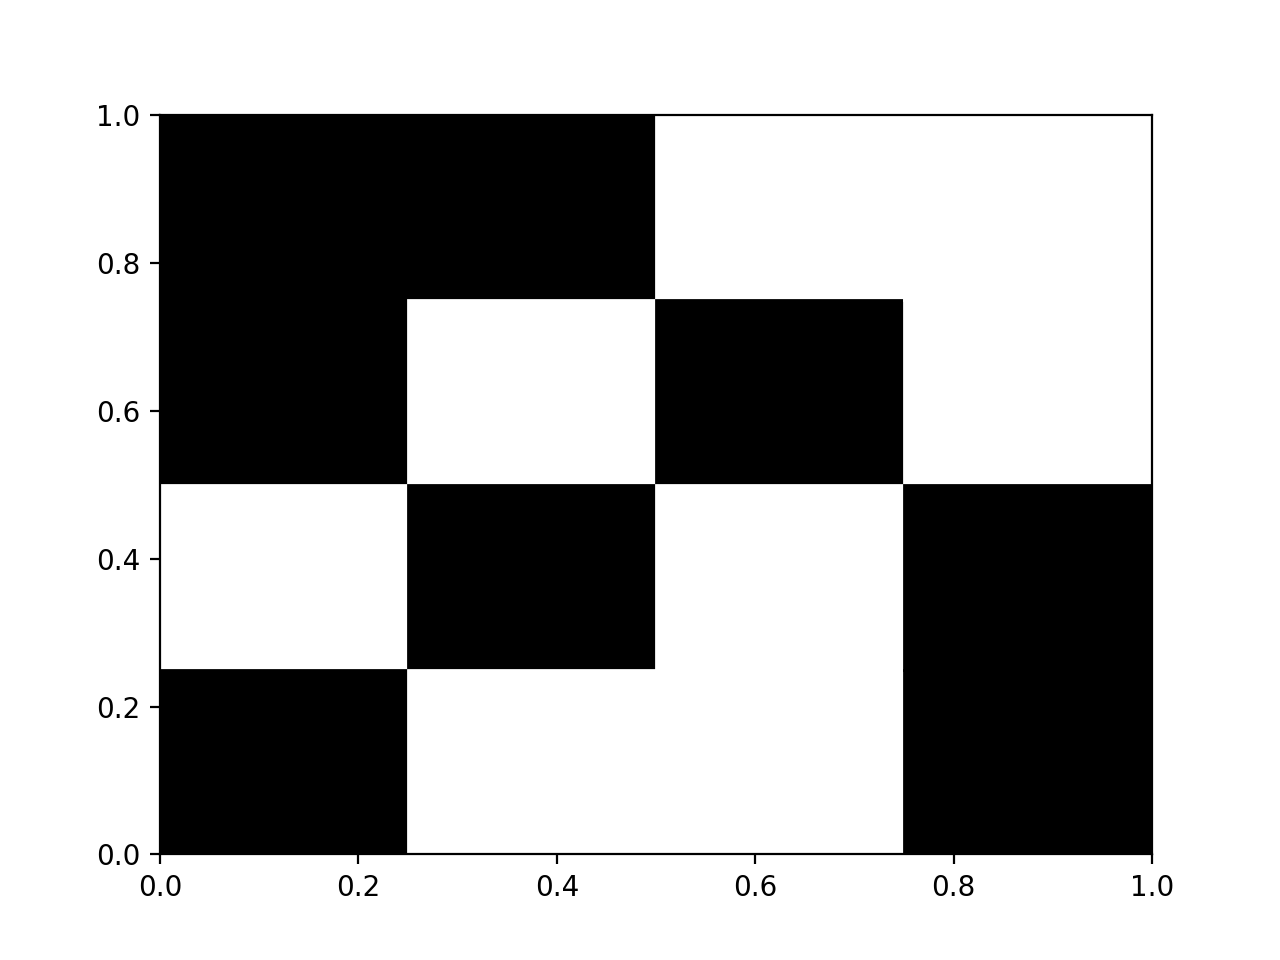
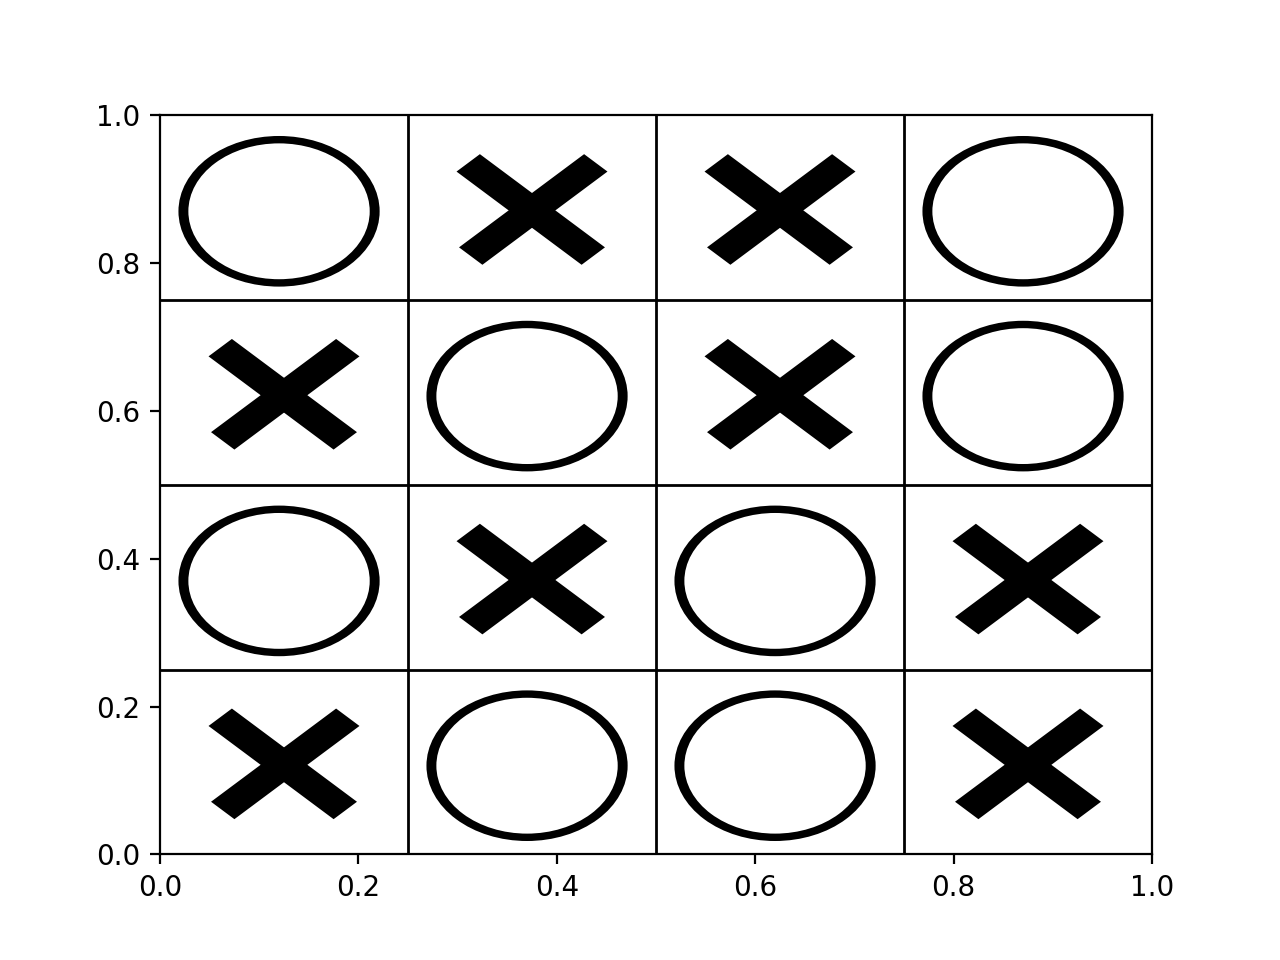
-FirstLab initial commit

diff --git a/ZeroLab/Programms/A_CrossZero.py b/ZeroLab/Programms/A_CrossZero.py
@@ -1,12 +1,12 @@
 import matplotlib.pyplot as plt
 import matplotlib.patches as patch
-from math import pi
 
 import numpy as np
 
 
-def matrixIsAcceptable(elements, maxX, maxY):
-    print(elements)
+def matrixIsAcceptable(elements, maxX, maxY, verbose=False):
+    if verbose:
+        print(elements)
     zeroAm = 0
     oneAm = 0
     # Check horizontal
@@ -23,14 +23,17 @@ def matrixIsAcceptable(elements, maxX, maxY):
                 isDivised = False
 
         if isDivised:
-            print('is divesed')
+            if verbose:
+                print('is divesed')
             return False
 
-    print('zeroAm = ', zeroAm)
-    print('oneAm = ', oneAm)
+    if verbose:
+        print('zeroAm = ', zeroAm)
+        print('oneAm = ', oneAm)
 
     if not zeroAm == oneAm == 8:
-        print('is not equal')
+        if verbose:
+            print('is not equal')
         return False
 
     # check vertical
@@ -41,39 +44,31 @@ def matrixIsAcceptable(elements, maxX, maxY):
             if (elements[y][x] != checkedEl):
                 isDivised = False
         if isDivised:
-            print('is divised')
+            if verbose:
+                print('is divised')
             return False
 
     return not isDivised
 
 
 def addCircle(x, y, color):
-    r=0.1
-    plt.gca().add_patch(patch.Circle((x + (0.25-r), y + (0.25-r)), radius=r, color=color))
-    plt.gca().add_patch(patch.Circle((x + (0.25-r), y + (0.25-r)), radius=r * 0.9, color='#FFFFFF'))
+    r = 0.1
+    plt.gca().add_patch(patch.Circle((x + (0.25 - r * 1.3), y + (0.25 - r * 1.3)), radius=r, color=color))
+    plt.gca().add_patch(patch.Circle((x + (0.25 - r * 1.3), y + (0.25 - r * 1.3)), radius=r * 0.9, color='#FFFFFF'))
 
 
 def addCross(x, y, color):
     # L
-    plt.gca().add_patch(patch.Rectangle((x + 0.25 * 0.7, y+0.25*0.1), color=color, width=0.03, height=0.175, angle=45))
+    plt.gca().add_patch(
+        patch.Rectangle((x + 0.25 * 0.7, y + 0.25 * 0.2), color=color, width=0.03, height=0.175, angle=45))
     # R
-    plt.gca().add_patch(patch.Rectangle((x + 0.25 * 0.3, y+0.25*0.1), color=color, width=0.175, height=0.03, angle=45))
+    plt.gca().add_patch(
+        patch.Rectangle((x + 0.25 * 0.3, y + 0.25 * 0.2), color=color, width=0.175, height=0.03, angle=45))
 
 
-if __name__ == '__main__':
-    minEl = 0
-    maxEl = 1
-
+def plot_field(elements, path, save=False, show=True):
     xSize = 4
     ySize = 4
-
-    elements = np.random.randint(minEl, maxEl + 1, size=(ySize, xSize))
-    while not matrixIsAcceptable(elements, xSize, ySize):
-        elements = np.random.randint(minEl, maxEl + 1, size=(ySize, xSize))
-        print('----------------------------------')
-    plt.xlim(0, 1)
-    plt.ylim(0, 1)
-
     for x in range(0, xSize):
         for y in range(0, ySize):
             if elements[y][x] == 1:
@@ -81,10 +76,45 @@ if __name__ == '__main__':
             else:
                 addCircle(x=x / 4.0, y=(ySize - y - 1) / 4.0, color="#000000")
 
-    plt.show()
-    plt.close()
+    for i in np.arange(0.25, 0.76, 0.25, dtype=float):
+        plt.gca().add_patch(patch.Rectangle((i, 0), color="#000000", width=0.0001, height=1))
+        plt.gca().add_patch(patch.Rectangle((0, i), color="#000000", width=1, height=0.0001))
 
-    # if input('SAVE? [Y/n]') == 'Y':
-    #     plt.savefig("../Pictures/1_CrossZero.png", dpi=200)
-    # if input('SHOW? [Y/n]') == 'Y':
-    #     plt.show()
+    if save:
+        plt.savefig(path, dpi=200)
+    if show:
+        plt.show()
+    plt.close()
+    return
+
+
+
+def load_data(ex_num, path_for_images, save_images=False):
+    minEl = 0
+    maxEl = 1
+    xSize = 4
+    ySize = 4
+
+    y_train = np.empty(ex_num, dtype=np.ndarray)
+    #x_train =
+    for i in range(0, ex_num):
+        elements = np.random.randint(minEl, maxEl + 1, size=(ySize, xSize))
+        while not matrixIsAcceptable(elements, xSize, ySize):
+            elements = np.random.randint(minEl, maxEl + 1, size=(ySize, xSize))
+
+        if save_images:
+            plot_field(elements, str(path_for_images) + str("/cz_") + str(i), save=save_images, show=False)
+        elements.shape = (16)
+        y_train[i] = elements
+    #    x_train
+
+    return y_train
+    # return (x_train, y_train), (x_test, y_test)
+    # return elements
+
+#size = 48 x 32 = 3072
+#size = 32 x 24 = 768
+#3072
+
+if __name__ == '__main__':
+        load_data(1,)

diff --git a/TfWithKeras/IMAGE_CHANGER.py b/TfWithKeras/IMAGE_CHANGER.py
@@ -1,16 +1,18 @@
 from PIL import Image
 
 
-def resize_image(input_image_path,
-                 output_image_path,
-                 size):
-    original_image = Image.open(input_image_path)
+def resize_image(input_path, output_path, size):
+    original_image = Image.open(input_path)
 
     resized_image = original_image.resize(size)
-    width, height = resized_image.size
 
-    resized_image.save(output_image_path)
+    resized_image.save(output_path)
 
 
-# Example
-#resize_image(input_image_path='9.png', output_image_path='9.png', size=(28, 28))
+def cut_image(input_path, output_path, area):
+    original_image = Image.open(input_path)
+
+    original_image = original_image.crop(area)
+
+    original_image.save(output_path)
+

diff --git a/FirstLab/A_CrossZeroRecognizer.py b/FirstLab/A_CrossZeroRecognizer.py
@@ -1,0 +1,9 @@
+import numpy as np
+import keras
+
+from keras.preprocessing import image
+
+import ZeroLab.Programms.A_CrossZero as dataset
+
+#if __name__ == '__main__':
+
